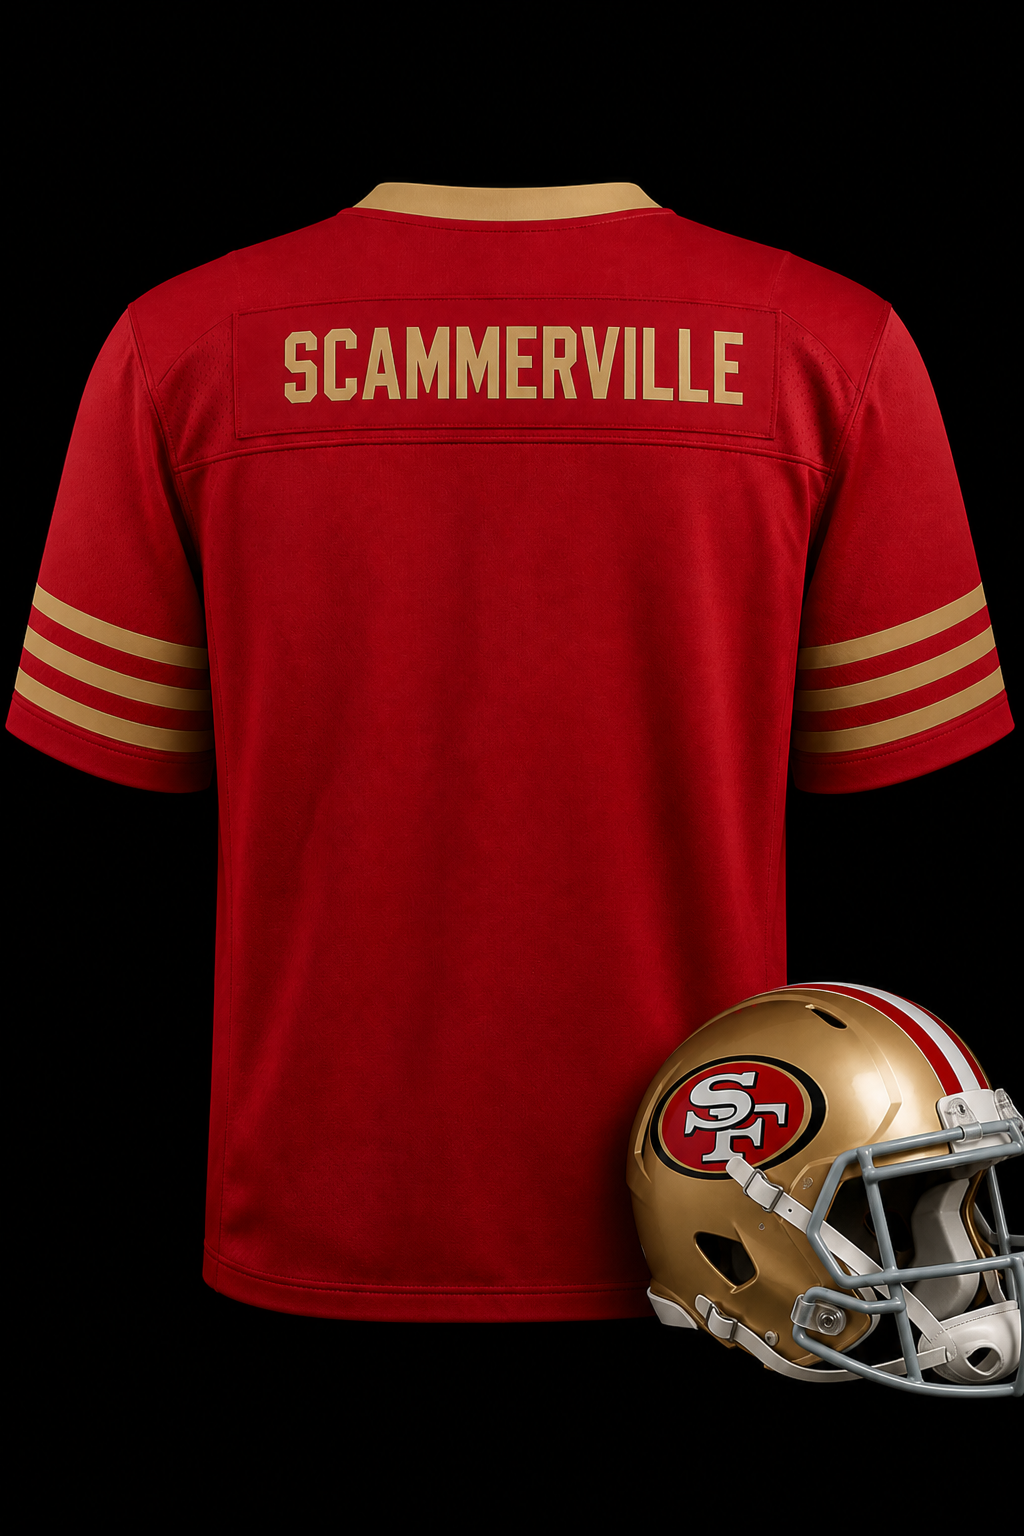
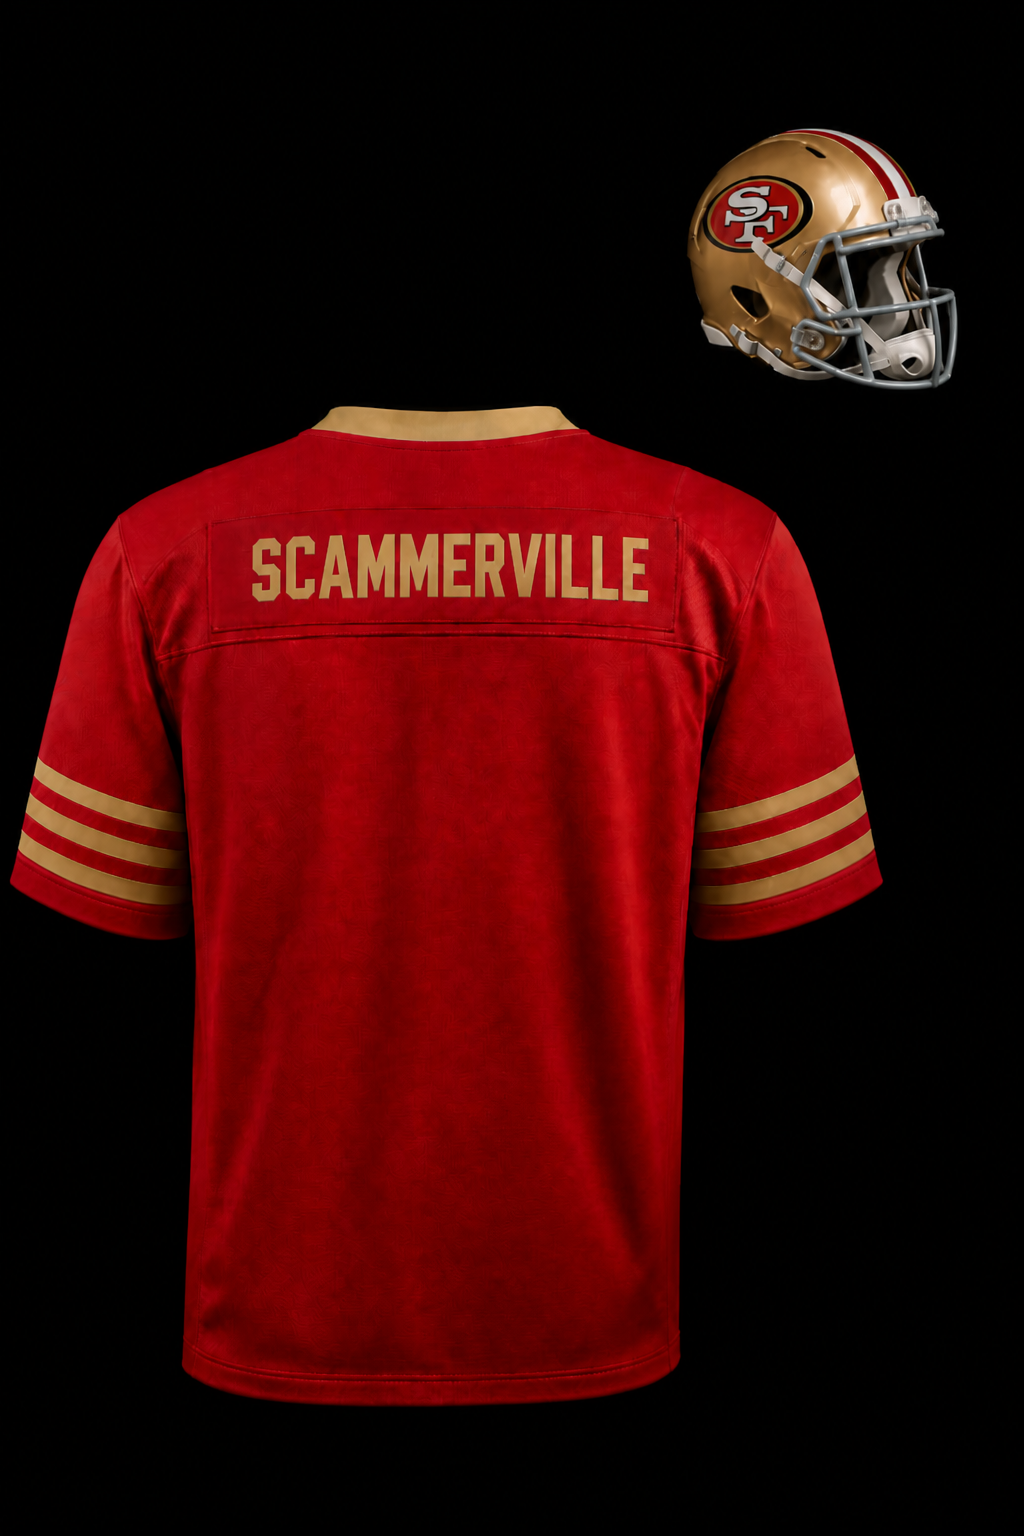
s3.0.39: NFL uniform stack shift, ScammerVille neckline and helmet

diff --git a/display.css b/display.css
@@ -913,7 +913,7 @@ body.display.display-booting .display-canvas:not(.has-background-layer){
   margin:0 auto;
 }
 .display-canvas.soccer-jersey-template.jersey-photo-back #displaySub.soccer-jersey-number{
-  top:47%!important;
+  top:39%!important;
   height:28%!important;
   left:24%!important;
   right:24%!important;
@@ -934,7 +934,7 @@ body.display.display-booting .display-canvas:not(.has-background-layer){
   transform:none;
 }
 .display-canvas.soccer-jersey-template.jersey-photo-back.jersey-name-wrapped #displaySub.soccer-jersey-number{
-  top:47%!important;
+  top:39%!important;
   height:28%!important;
 }
 .display-canvas.soccer-jersey-template.jersey-photo-back .display-identity-rail.soccer-jersey-rail{
@@ -974,7 +974,7 @@ body.display.display-booting .display-canvas:not(.has-background-layer){
 }
 .display-canvas[data-screen-format-id="led-64x48"].soccer-jersey-template.jersey-photo-back #displaySub.soccer-jersey-number,
 .display-canvas[data-screen-format-id="p125-64x48"].soccer-jersey-template.jersey-photo-back #displaySub.soccer-jersey-number{
-  top:47%!important;
+  top:39%!important;
   height:28%!important;
   left:24%!important;
   right:24%!important;
@@ -984,7 +984,7 @@ body.display.display-booting .display-canvas:not(.has-background-layer){
 }
 .display-canvas[data-screen-format-id="led-64x32"].soccer-jersey-template.jersey-photo-back #displayMain.soccer-jersey-name,
 .display-canvas[data-screen-format-id="p125-64x32"].soccer-jersey-template.jersey-photo-back #displayMain.soccer-jersey-name{
-  top:23%!important;
+  top:17%!important;
   height:9%!important;
   left:22%!important;
   right:22%!important;
@@ -999,10 +999,13 @@ body.display.display-booting .display-canvas:not(.has-background-layer){
   letter-spacing:.05em!important;
   transform:none;
 }
-/* NFL photo kits (yoke back + side helmet in PNG): no hanger — fixed width scale (do not height-shrink jersey) */
+/* NFL photo kits: uniform stack shift — jersey PNG + patron overlays move together (--nfl-photo-stack-y) */
+.display-canvas.soccer-jersey-template.jersey-sport-nfl.jersey-photo-back{
+  --nfl-photo-stack-y:10%;
+}
 .display-canvas.soccer-jersey-template.jersey-sport-nfl.jersey-photo-back .display-background{
   background-size:88% auto!important;
-  background-position:center 38%!important;
+  background-position:center calc(38% + var(--nfl-photo-stack-y))!important;
   background-repeat:no-repeat!important;
   background-color:#000!important;
 }
@@ -1013,7 +1016,7 @@ body.display.display-booting .display-canvas:not(.has-background-layer){
   display:none!important;
 }
 .display-canvas.soccer-jersey-template.jersey-sport-nfl.jersey-photo-back #displayMain.soccer-jersey-name{
-  top:18%!important;
+  top:calc(18% + var(--nfl-photo-stack-y))!important;
   height:9%!important;
   left:22%!important;
   right:22%!important;
@@ -1029,7 +1032,7 @@ body.display.display-booting .display-canvas:not(.has-background-layer){
   color:var(--jersey-secondary,#fff)!important;
 }
 .display-canvas.soccer-jersey-template.jersey-sport-nfl.jersey-photo-back #displaySub.soccer-jersey-number{
-  top:40%!important;
+  top:calc(40% + var(--nfl-photo-stack-y))!important;
   height:28%!important;
   left:22%!important;
   right:22%!important;
@@ -1052,37 +1055,37 @@ body.display.display-booting .display-canvas:not(.has-background-layer){
 }
 .display-canvas[data-screen-format-id="led-96x48"].soccer-jersey-template.jersey-sport-nfl.jersey-photo-back #displayMain.soccer-jersey-name,
 .display-canvas[data-screen-format-id="p125-96x48"].soccer-jersey-template.jersey-sport-nfl.jersey-photo-back #displayMain.soccer-jersey-name{
-  top:17%!important;
+  top:calc(17% + var(--nfl-photo-stack-y))!important;
   left:24%!important;
   right:24%!important;
 }
 .display-canvas[data-screen-format-id="led-96x48"].soccer-jersey-template.jersey-sport-nfl.jersey-photo-back #displaySub.soccer-jersey-number,
 .display-canvas[data-screen-format-id="p125-96x48"].soccer-jersey-template.jersey-sport-nfl.jersey-photo-back #displaySub.soccer-jersey-number{
-  top:39%!important;
+  top:calc(39% + var(--nfl-photo-stack-y))!important;
   left:24%!important;
   right:24%!important;
 }
 .display-canvas[data-screen-format-id="led-64x48"].soccer-jersey-template.jersey-sport-nfl.jersey-photo-back #displayMain.soccer-jersey-name,
 .display-canvas[data-screen-format-id="p125-64x48"].soccer-jersey-template.jersey-sport-nfl.jersey-photo-back #displayMain.soccer-jersey-name{
-  top:17%!important;
+  top:calc(17% + var(--nfl-photo-stack-y))!important;
   left:22%!important;
   right:22%!important;
 }
 .display-canvas[data-screen-format-id="led-64x48"].soccer-jersey-template.jersey-sport-nfl.jersey-photo-back #displaySub.soccer-jersey-number,
 .display-canvas[data-screen-format-id="p125-64x48"].soccer-jersey-template.jersey-sport-nfl.jersey-photo-back #displaySub.soccer-jersey-number{
-  top:39%!important;
+  top:calc(39% + var(--nfl-photo-stack-y))!important;
   left:22%!important;
   right:22%!important;
 }
 .display-canvas[data-screen-format-id="led-64x32"].soccer-jersey-template.jersey-sport-nfl.jersey-photo-back #displayMain.soccer-jersey-name,
 .display-canvas[data-screen-format-id="p125-64x32"].soccer-jersey-template.jersey-sport-nfl.jersey-photo-back #displayMain.soccer-jersey-name{
-  top:16%!important;
+  top:calc(16% + var(--nfl-photo-stack-y))!important;
   left:20%!important;
   right:20%!important;
 }
 .display-canvas[data-screen-format-id="led-64x32"].soccer-jersey-template.jersey-sport-nfl.jersey-photo-back #displaySub.soccer-jersey-number,
 .display-canvas[data-screen-format-id="p125-64x32"].soccer-jersey-template.jersey-sport-nfl.jersey-photo-back #displaySub.soccer-jersey-number{
-  top:38%!important;
+  top:calc(38% + var(--nfl-photo-stack-y))!important;
   height:30%!important;
   left:20%!important;
   right:20%!important;

diff --git a/display2.html b/display2.html
@@ -8,7 +8,7 @@
   <meta http-equiv="Pragma" content="no-cache"/>
   <title>FLOQR ShoutOut Display 2</title>
   <meta name="floqr-display-board" content="secondary"/>
-  <link rel="stylesheet" href="./display.css?v=s3.0.36"/>
+  <link rel="stylesheet" href="./display.css?v=s3.0.39"/>
 </head>
 <body class="display display-booting display-board-secondary">
   <main id="displayCanvas" class="display-canvas" data-display-board="secondary">
@@ -39,11 +39,11 @@
 <script src="https://www.gstatic.com/firebasejs/10.12.5/firebase-firestore-compat.js"></script>
 <script src="https://www.gstatic.com/firebasejs/10.12.5/firebase-functions-compat.js"></script>
 <script src="./firebase-config.js?v=29.09.22"></script>
-<script src="./shared-data.js?v=s3.0.36"></script>
+<script src="./shared-data.js?v=s3.0.39"></script>
 <script src="./national-teams-data.js?v=s3.0.20"></script>
 <script src="./jersey-catalog.js?v=s3.0.32"></script>
 <script src="./floqr-identity.js?v=29.09.22"></script>
-<script src="./display-app.js?v=s3.0.36"></script>
+<script src="./display-app.js?v=s3.0.39"></script>
 <script src="./notification-center.js?v=29.09.22"></script>
 <script src="./suprstr-webrtc.js?v=29.09.73"></script>
 <script src="./display-suprstr.js?v=29.09.73"></script>

diff --git a/display.html b/display.html
@@ -7,7 +7,7 @@
   <meta http-equiv="Cache-Control" content="no-cache, no-store, must-revalidate"/>
   <meta http-equiv="Pragma" content="no-cache"/>
   <title>FLOQR ShoutOut Display</title>
-  <link rel="stylesheet" href="./display.css?v=s3.0.36"/>
+  <link rel="stylesheet" href="./display.css?v=s3.0.39"/>
 </head>
 <body class="display display-booting display-board-primary">
   <main id="displayCanvas" class="display-canvas" data-display-board="primary">
@@ -39,11 +39,11 @@
 <script src="https://www.gstatic.com/firebasejs/10.12.5/firebase-functions-compat.js"></script>
 <script src="./firebase-config.js?v=29.09.22"></script>
 <script src="./floqr-temp-qa-showcase.js?v=29.09.112"></script>
-<script src="./shared-data.js?v=s3.0.36"></script>
+<script src="./shared-data.js?v=s3.0.39"></script>
 <script src="./national-teams-data.js?v=s3.0.20"></script>
 <script src="./jersey-catalog.js?v=s3.0.32"></script>
 <script src="./floqr-identity.js?v=29.09.22"></script>
-<script src="./display-app.js?v=s3.0.36"></script>
+<script src="./display-app.js?v=s3.0.39"></script>
 <script src="./notification-center.js?v=29.09.22"></script>
 <script src="./suprstr-webrtc.js?v=29.09.73"></script>
 <script src="./display-suprstr.js?v=29.09.73"></script>

diff --git a/floqr-nav.js b/floqr-nav.js
@@ -5,7 +5,7 @@
   /* CURRENT PACKAGE. Bump this whenever README CURRENT PACKAGE bumps.
      Generated in-app links (Venue Links, FloqAi, Back) stamp this at render time.
      Never copy the page's ?v= — old bookmarks would keep minting old Club Admin URLs. */
-  const APP_V = "s3.0.36";
+  const APP_V = "s3.0.39";
 
   function navT(key, fallback) {
     try {

diff --git a/README.md b/README.md
@@ -1,6 +1,6 @@
-# CURRENT PACKAGE: FLOQR ShoutOut s3.0.36 (stable)
+# CURRENT PACKAGE: FLOQR ShoutOut s3.0.39 (stable)
 
-- s3.0.36: NFL ScammerVille silhouette scale restored (`88% auto`); helmet raised without shrinking jersey; rule file corrected.
+- s3.0.39: NFL uniform stack shift (`--nfl-photo-stack-y: 10%`); ScammerVille helmet gap PNG; overlays move with jersey.
 - s3.0.35: Classic B&W pre-shoutout idle uses dark board + white text (lower LED current); 64×48 main text cap 48 chars; emoji on non-B&W templates; `classic-bw-pre-shoutout.mdc` rule.
 - s3.0.34: ScammerVille NFL collar/helmet + per-screen photo sizing; jersey ShoutOuts save name-source as `attribution` for FROM on the FLOQR card.
 - s3.0.33: NFL photo-back layout (name midway yoke/number, larger patron name, visible collar, helmet raised); regenerated 49ers + ScammerVille PNGs; `nfl-jersey-photo-backs.mdc` prompt rule.
